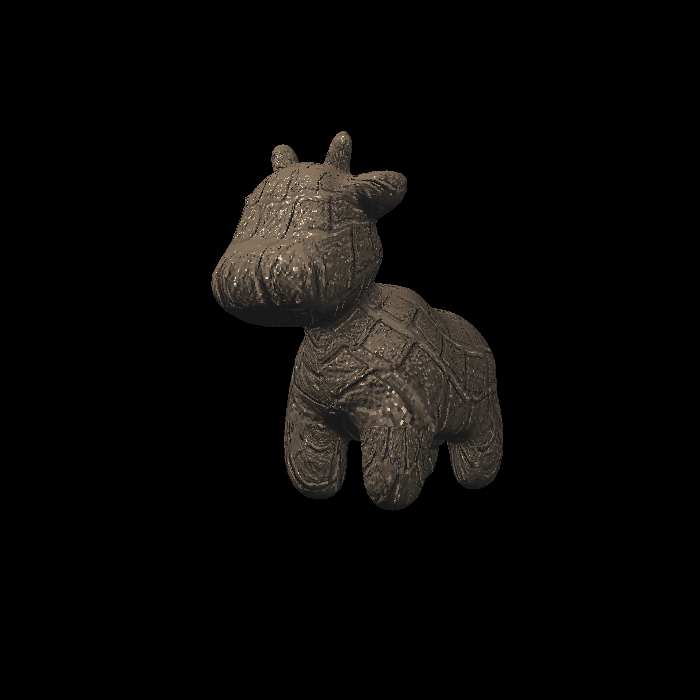
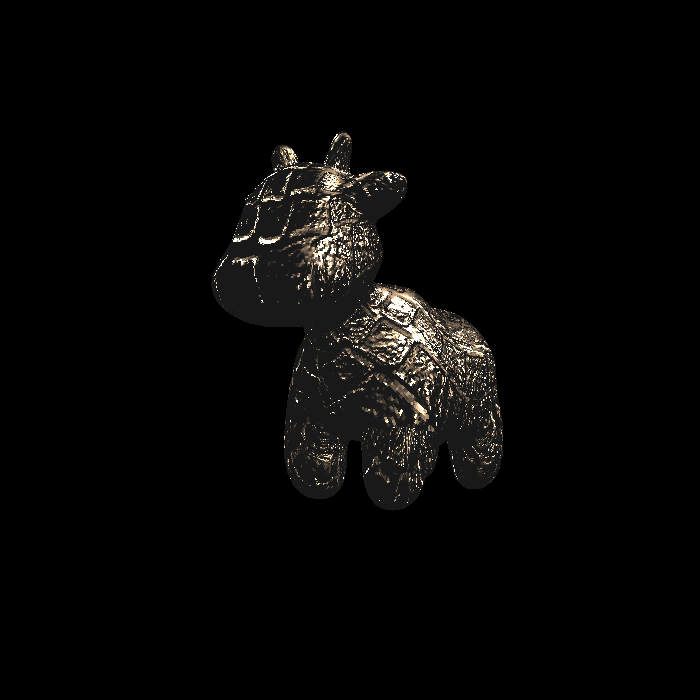
fix displacement shader bug

Changed region(s): [[0.3, 0.18, 0.72, 0.72]]

diff --git a/homework3/main.cpp b/homework3/main.cpp
@@ -251,6 +251,9 @@ Eigen::Vector3f displacement_fragment_shader(const fragment_shader_payload& payl
 	ln << -dU, -dV, 1.f;
 	n = (TBN * ln).normalized();
 
+	// displacement view point
+	point += kn * n * tex->getColor(u, v).norm();
+
     Eigen::Vector3f result_color = {0, 0, 0};
 
     for (auto& light : lights)
